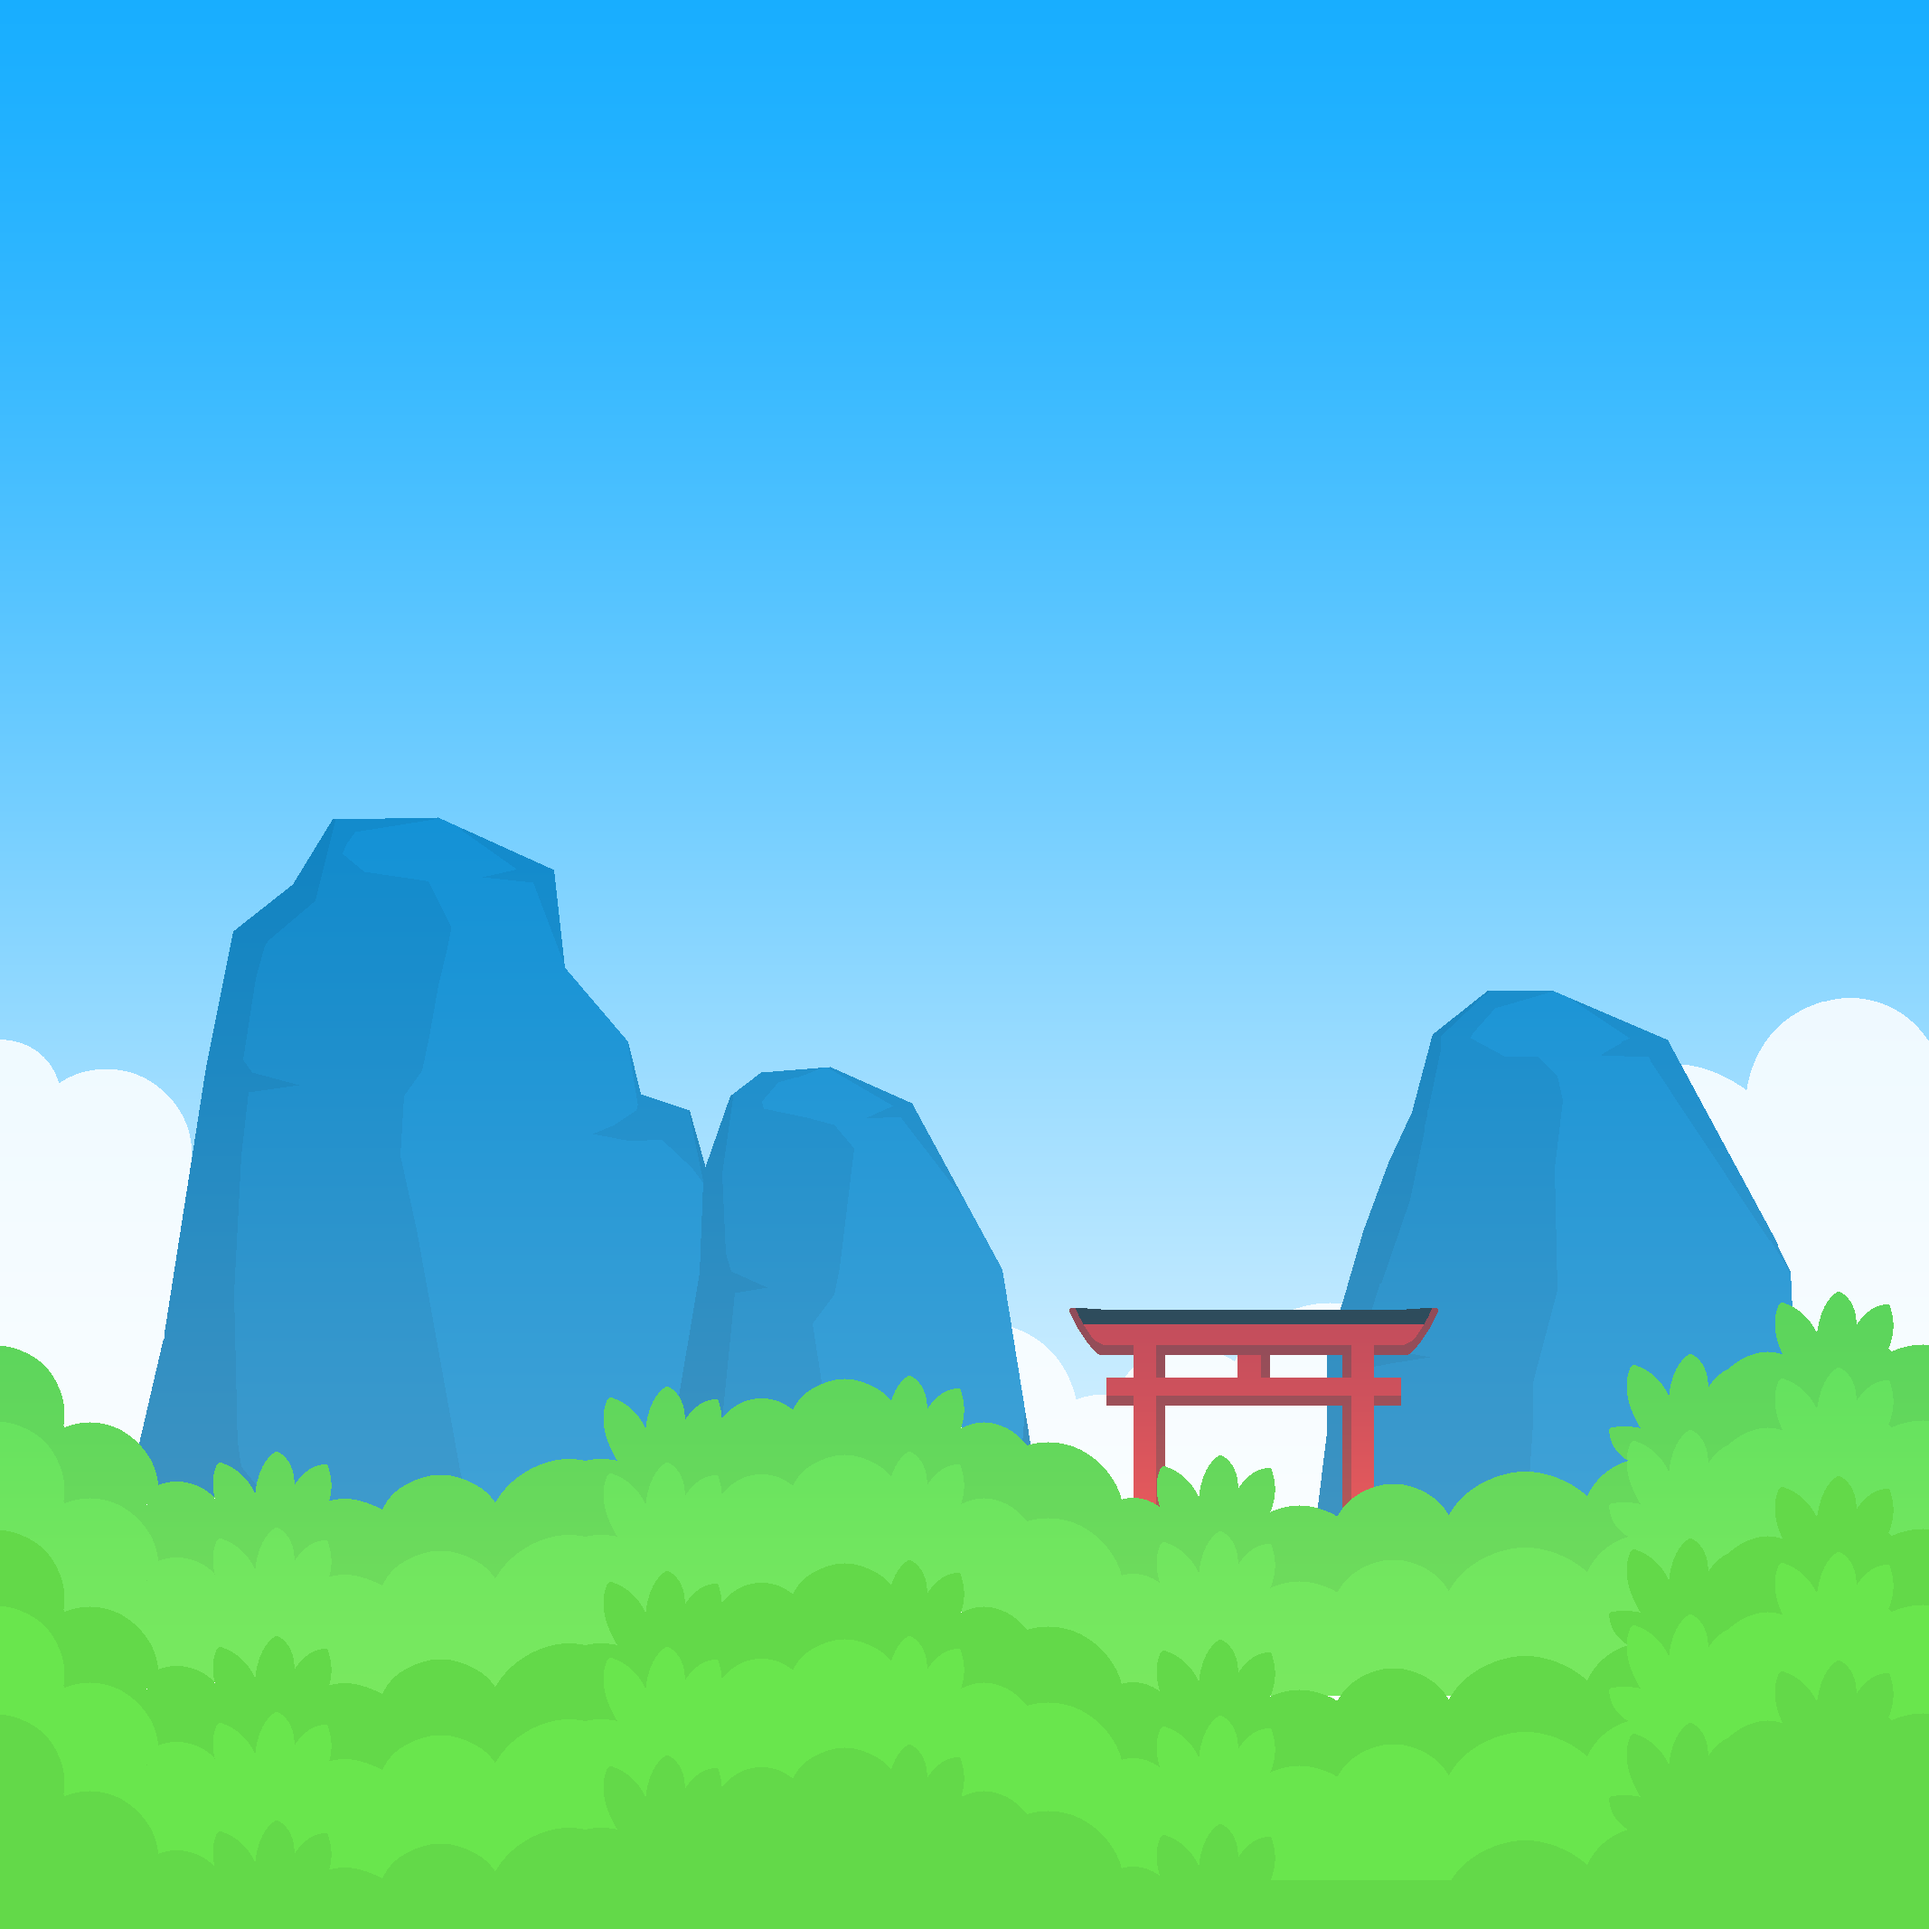
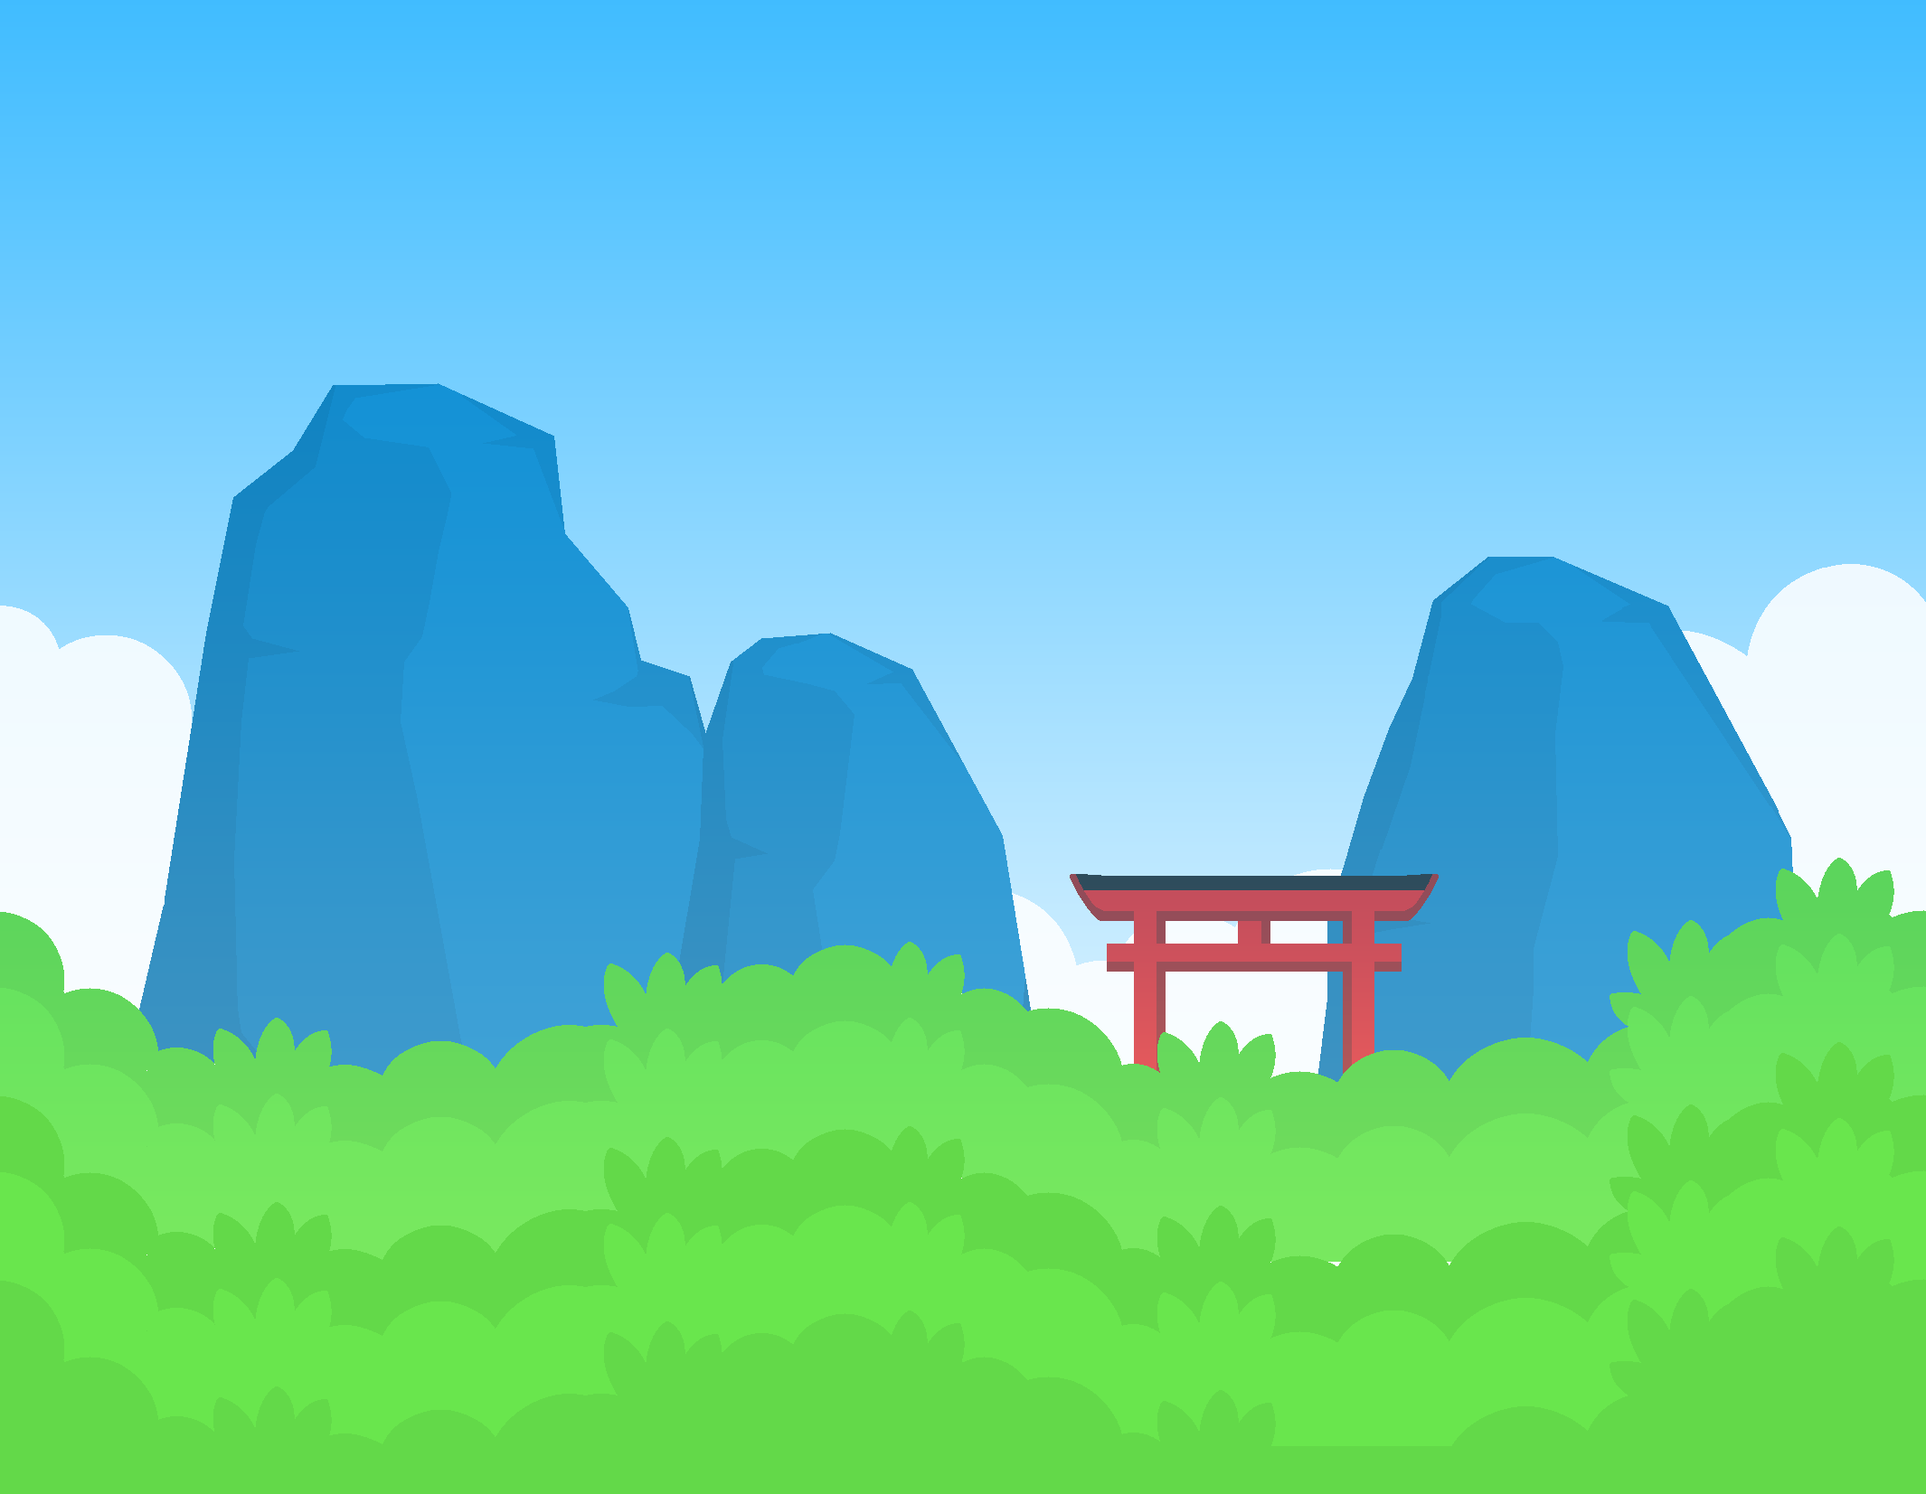
homepage good

diff --git a/homepage.html b/homepage.html
@@ -1,30 +1,32 @@
-
-<!DOCTYPE html>
-<html>
-<head>
-    <meta charset="UTF-8">
-    <title>Homepage</title>
-    <link rel="stylesheet" href="./css/style.css">
-<html>
+<html>
+    <head>
+        <meta charset="UTF-8">
+        <title>Homepage</title>
+        <link rel="stylesheet" href="./css/style.css">
+    </head>
+    
     <body>
-        <header>
-            <div class="wrapper">
-                <div class="logo">
+        <div class="wrapper">
+         <div class="logo">
 
-                </div>
-                <ul class="nav-area">
-                    <li><a href="#">INTRODUCTION</a></li>
-                    <li><a href="#">MEMBER</a></li>
-                    <li><a href="#">DIARY</a></li>
-                </ul>
-            </div>
-            <div class="welcome-text">
-                <img src="./image/run.gif"><img>
-                <h1>
-                    Fanlu <span>GOGOGO</span>
-                </h1>
-                <a href="#">START</a>
-            </div>
-        </header>
+         </div>
+            <ul class="nav-area">
+             <li><a href="#">INTRODUCTION</a></li>
+             <li><a href="#">MEMBER</a></li>
+             <li><a href="#">DIARY</a></li>
+         </ul>
+    </div>
+        <div class="welcome-text">
+         <img src="./image/run.gif"><img>
+         <h1>
+             Fanlu <span>GOGOGO</span>
+         </h1>
+         <a href="#">START</a>
+        </div>
+        <script>
+            window.onload = function () {
+                document.body.style.backgroundSize = document.body.offsetWidth + "px " + document.body.offsetHeight+"px";
+            }
+        </script>
     </body>
 </html>

diff --git a/css/style.css b/css/style.css
@@ -4,18 +4,11 @@
 }
 body {
 	font-family: 'Poppins', sans-serif;
+	background-image:url(../Image/background.png);
 }
 .wrapper {
 	width: 1150px;
 	margin: auto;
-}
-header {
-	background: linear-gradient(rgba(0, 0, 0, 0.1), rgba(0, 0, 0, 0)), url(../Image/background.png);
-	height: 140vh;
-	-webkit-background-size: cover;
-	background-size: cover;
-	background-position: center center;
-	position: relative;
 }
 .nav-area {
 	float: right;
@@ -47,7 +40,7 @@ header {
 .welcome-text {
 	position: absolute;
 	width: 600px;
-	height: 300px;
+	height: 100px;
 	margin: 10% 30%;
 	text-align: center;
 }
@@ -74,6 +67,10 @@ header {
 .welcome-text a:hover {
 	background: #00000000;
 	color: #333;
+}
+
+.welcome-text img{
+	height:300px;
 }
 /*resposive*/
 
